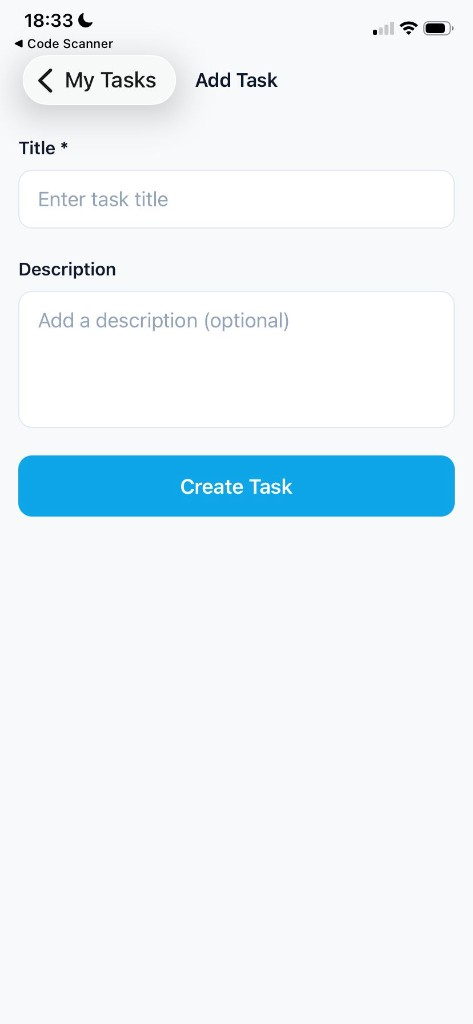
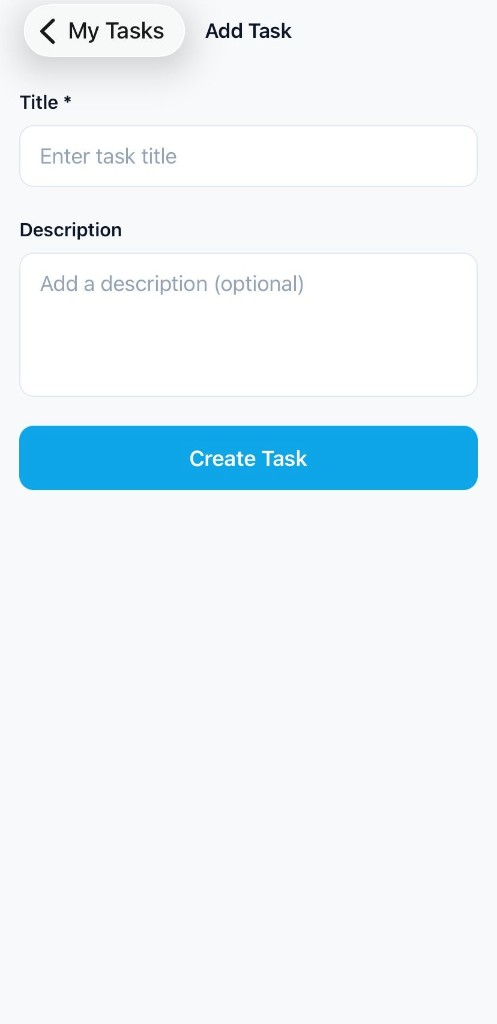
readme update

diff --git a/README.md b/README.md
@@ -1,16 +1,18 @@
 # PRITECH React Native Task
 
+**Repository:** [github.com/dijanahasanii/PRITECH-TASK](https://github.com/dijanahasanii/PRITECH-TASK)
+
 A task manager built with React Native, TypeScript, and Expo. Includes an **Explore Space** section powered by NASA's Astronomy Picture of the Day API.
 
 ## What I built
 
-I built a personal task manager where users can add, view, update task status, and delete tasks with title, description, status, and created date. Tasks are saved on the device with AsyncStorage, and the home screen supports search and filtering by status. I also added stack navigation across task screens and a NASA APOD section that fetches today's astronomy image from a public API, with caching for faster repeat loads.
+I built a personal task manager where users can add, view, update task status, and delete tasks with title, description, status, and created date. Tasks are saved on the device with AsyncStorage, and the home screen supports search and filtering by status. I also added stack navigation across task screens, light/dark theme toggle, and a NASA APOD section that fetches today's astronomy image or video from a public API—with a paused video preview for direct `.mp4` links and caching for faster repeat loads.
 
 ## Screenshots
 
 | Home | Add Task | NASA Detail |
 |---|---|---|
-| ![Home screen](docs/screenshots/home.png?v=4) | ![Add task screen](docs/screenshots/add-task.png?v=4) | ![NASA detail screen](docs/screenshots/nasa-detail.png?v=4) |
+| ![Home screen](docs/screenshots/home.png?v=5) | ![Add task screen](docs/screenshots/add-task.png?v=5) | ![NASA detail screen](docs/screenshots/nasa-detail.png?v=5) |
 
 ## Features
 
@@ -82,4 +84,4 @@ src/
 
 ## NASA API
 
-`src/services/nasaService.ts` fetches today's APOD from NASA (with cache), retries on failure, and only shows images from today's date.
+`src/services/nasaService.ts` fetches today's APOD from NASA (with cache), retries on failure, and only shows today's image or video.